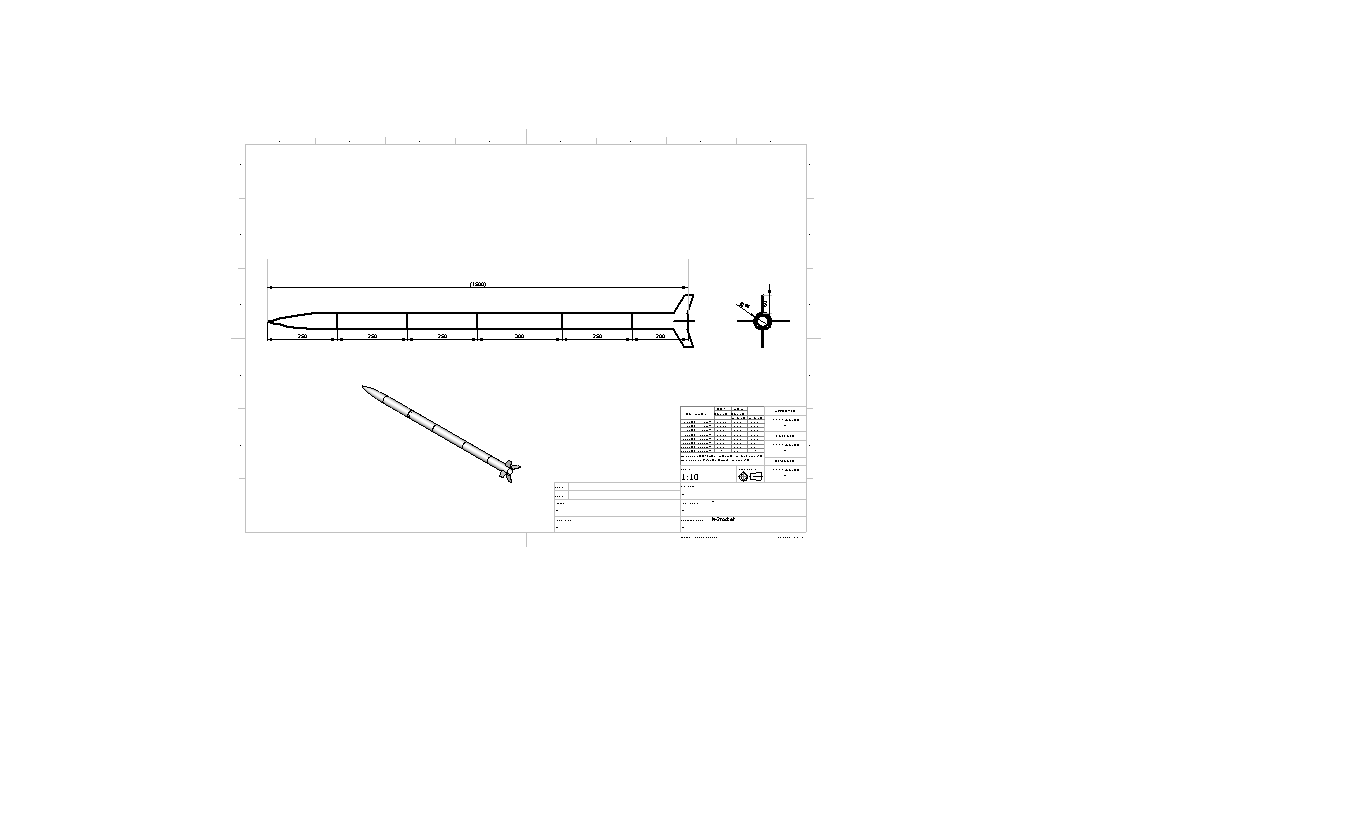
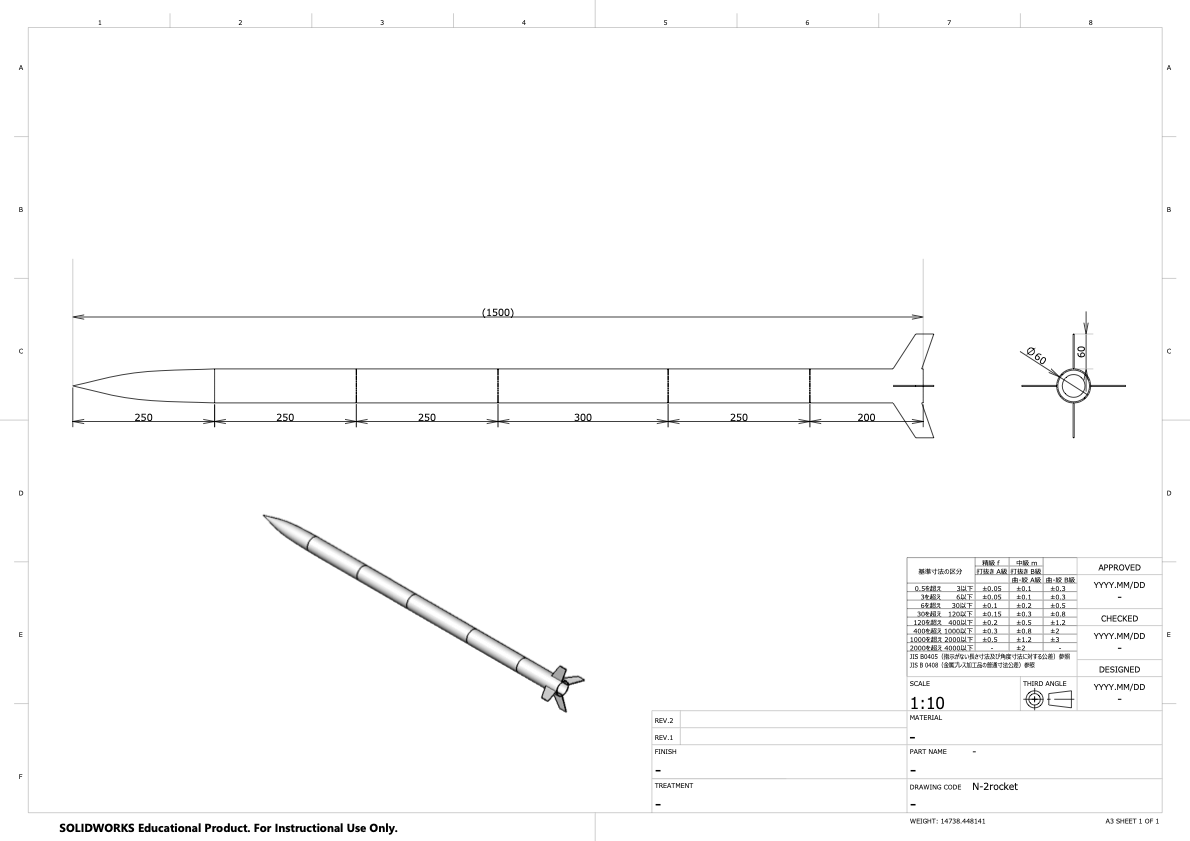
add image

diff --git a/README.md b/README.md
@@ -1,0 +1,2 @@
+# N2 airframe 
+![](N-2rocket.png)
